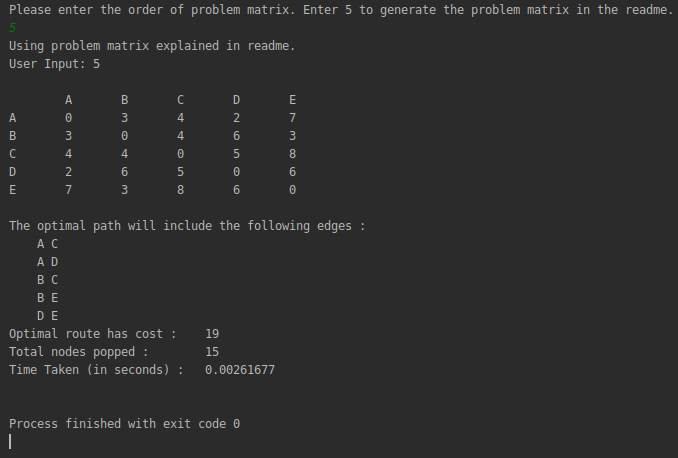
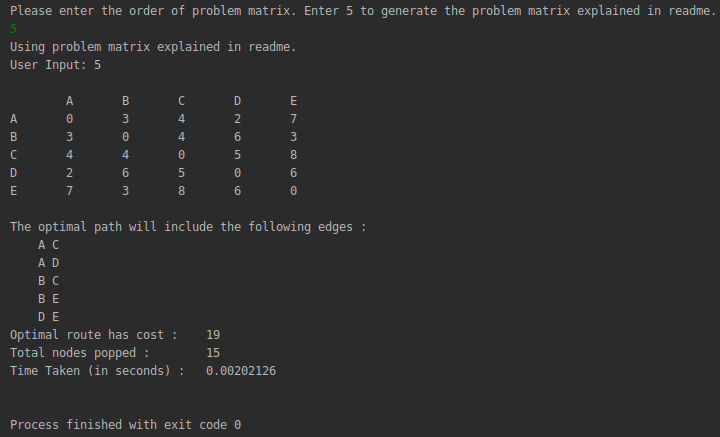
Minor edits

diff --git a/src/main.cpp b/src/main.cpp
@@ -60,7 +60,7 @@ void singleThreadBAndBTSP(int matrixOrder) {
 
 int main() {
     int matrixOrder;
-    std::cout << "Please enter the order of problem matrix. Enter 5 to generate the problem matrix in the readme."
+    std::cout << "Please enter the order of problem matrix. Enter 5 to generate the problem matrix explained in readme."
               << std::endl;
     std::cin >> matrixOrder;
 

diff --git a/README.md b/README.md
@@ -2,21 +2,21 @@
 
 The **traveling salesman problem** is a problem in graph theory requiring the most efficient (i.e., least total distance) [Hamiltonian cycle](http://mathworld.wolfram.com/HamiltonianCycle.html) a salesman can take through each of **n cities**. No general method of solution is known, and the problem is [*NP-hard*](http://mathworld.wolfram.com/NP-HardProblem.html).
 
-## Optimal Solution for Travelling Salesman Problem using Branch and Bound.
+## Optimal Solution for Travelling Salesman Problem using Branch and Bound
 
 Consider the following graph:
 
 ![](./readme/problemGraph.png)
 
-Consider *node* **d**. If *node* **d** has to be explored, it can be entered via the least cost *edge* **(d, a)** and exit via the second least cost *edge* **(d, c)**. So, in best-case scenario, the least cost associated with exploring **d**, through arriving and leaving via least expensive edges is *7*.
+Consider **node d**. If **node d** has to be explored, it can be entered via the least cost **edge(d, a)** and exit via the second least cost **edge(d, c)**. So, in best-case scenario, the least cost associated with exploring **node d**, through arriving and leaving via least expensive edges is *7*.
 
 Using this information, a cost function is defined. The cost function calculates the least cost associated with exploring a solution with some given constraints. For an optimal solution, the cost function needs to be minimized.
 
 ## Cost function
 
-The lower bound on the cost of visiting any node is the sum of the least cost edges incident on it. Therefore, doing the same for all the nodes will give a lowerbound on cost of visiting each node. The complete trip cost of such a path (or route) is therefore half of sum of all least cost edges (every edge is considered twice while calculating lowerbound).
+The lower bound on the cost of visiting any node is the sum of the least cost edges incident on it. Therefore, doing the same for all the nodes will give a lowerbound on cost of visiting each node in a tour. **The lowerbound on complete tour cost of such a path (or route) is therefore half of sum of all least cost edges (every edge in a tour is considered twice while calculating lowerbound).**
 
-Therefore for the **problem graph** *without any constraints*, the lowerbound on any optimal solution is
+Therefore for the **problem graph** *without any constraints*, the lowerbound on any optimal tour is
 
 	1/2 * (5 + 6 + 8 + 7 + 9) = 17.5
 
@@ -24,35 +24,36 @@ Mathematically,
 
 ![](./readme/TSPequation.png)
 
-From the solution set S, another function is defined which goes over the nodes in ascending order and marks them for inclusion or exclusion.  
+From the solution set S of possible tours, another function is defined which goes over the nodes in **ascending order** and marks them for *inclusion or exclusion* in a given tour.  
 
-That is, **city 0 (or A)** is start and **city 1 (or B)** is considered after **city 0 (or A)**. The function marks **edge(city 0, city 1)** or **edge(A, B)** for exclusion / inclusion and then calculates the lowerbound of a solution with the associated constraints.
+For example, **city 0 (or A)** is considered **start**. **city 1 (or B)** is considered after **city 0 (or A)**. The function marks **edge(city 0, city 1)** or **edge(A, B)** for *exclusion / inclusion* and then calculates the lowerbound of **tours with ab** and a **tours without ab**.
 ![](./readme/problemTours.png)
 
-Every time a new branch is created from this procedure, the following information is updated. 
+Every time a new branch is created in this procedure, the following information is updated. 
 
-1. If **excluding edge (x, y) would make it impossible for node x or node y to have as many as two adjacent edges** in the tour, then **edge (x, y) must be included.**
-2. If **including edge (x, y) would cause node x or node y to have more than two edges adjacent in the tour, or would complete a non-tour cycle** with edges already included, **then edge (x, y) must be excluded.**
+1. If **excluding edge(x, y) would make it impossible for node x or node y to have as many as two adjacent edges** in the tour, then **edge(x, y) must be included.**
+2. If **including edge(x, y) would cause node x or node y to have more than two edges adjacent in the tour, or would complete a non-tour cycle** with edges already included, **then edge(x, y) must be excluded.**
 
 For e.g, **tours with ab and ac** necessitates the following updates:
 
 * **node a** can only be reached by **edge(a, b)** and **edge(a, c)**.
 * **node c** has one edge set to **edge(a, c)**.
 * **node b** has one edge set to **edge(a, b)**.
-* **node d** can not be reached by **edge(a, d)**, because **node a** already has two adjacent edges
-* **node e** can not be reached by **edge(a, e)**, because **node a** already has two adjacent edges
+* **node d** can not be reached by **edge(a, d)**, because **node a** already has two adjacent edges.
+* **node e** can not be reached by **edge(a, e)**, because **node a** already has two adjacent edges.
 
-## Formulation of Problem Matrix
+## Problem Matrix and Solution Tree
 
 The problem assumes that all nodes are connected to each other via bidirectional edges,  
-i.e **edge(a, d)** is same as **edge(d, a)**.
+i.e. **edge(a, d)** *is same as* **edge(d, a)**.  
+**Tour N** gives the optimal (or lowest) **route cost (19)**.  
 ![](./readme/problemSolution.png)
 ![](./readme/input5.png)
 
 ## Sequential Solution
-Time taken to solve a problem matrix(or graph) of 25 nodes(or cities) without parallelization.
 
-### Randomly generated Problem Matrix
+**Randomly generated problem matrix having 25 nodes:**
+
 ![](./readme/input25.png)
 
 ![](./readme/result25.png)
